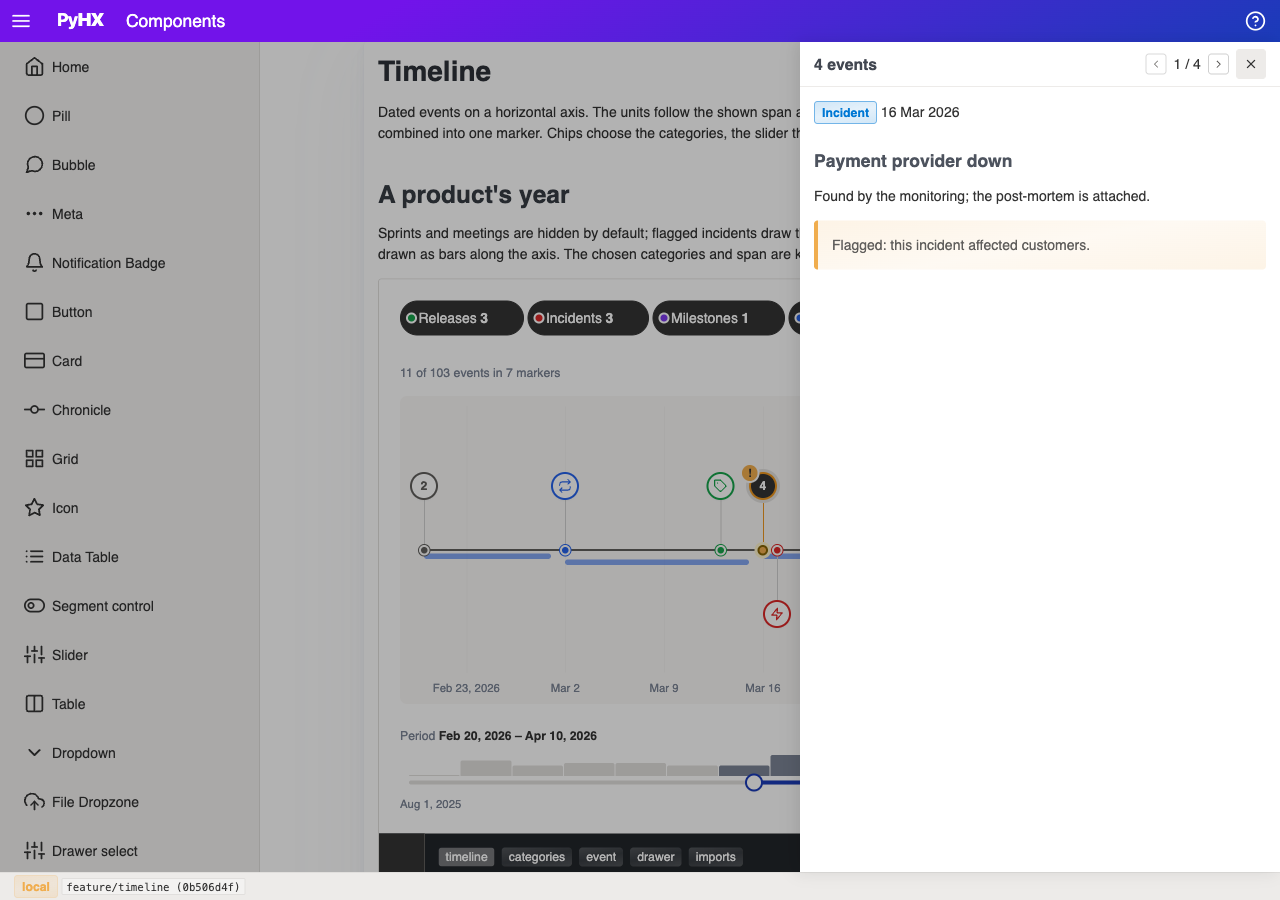
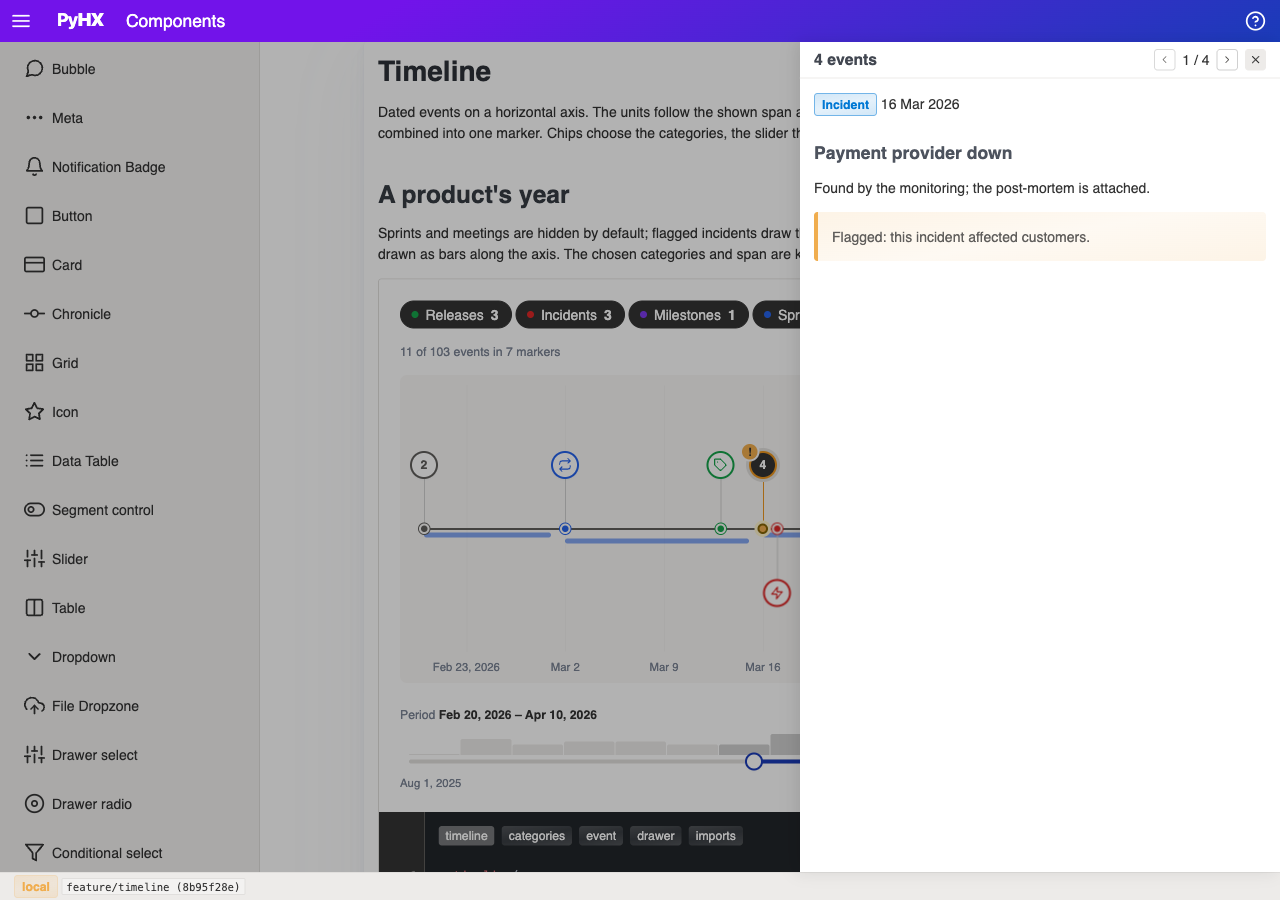
docs: record the drawer's small close button (T-019)

diff --git a/changes/03--closed/T-019--timeline/spec.md b/changes/03--closed/T-019--timeline/spec.md
@@ -72,6 +72,8 @@ Implemented as specified, with these deviations and findings (from the plan, rem
 - **D4** After the developer's review ("not nice spacing, the labels are not centred on the same line"): the chip row is a `role="group"`, which Pico styles as a joined button group (stretched children, margin); the timeline undoes that, the chips have one height (2rem) and even padding, and "Default" and "All" sit centred on the chips' line. The density strip is lighter (neutral-200, neutral-400 in the span).
 - **D5** After the review ("a hover effect like pulse, just not pulsing; warning markers pulsing"): markers show a still ring in their colour on hover and focus; markers with a warning send out a pulsing ring (like the loading indicator's ripple) and keep a still ring when the system asks for reduced motion.
 - **D6** After the review: the canvas layout sample has a timeline page too (`/timeline`, the course of a dossier in a card, with a drawer per marker), since the first app uses `CanvasShell`.
+- **D7** After the review ("button sizes should be the same, tend to the smaller size"): the drawer's close button is a small button (`size="sm"`), like the controls beside it, in every drawer; in the canvas design it is 28px (was 32px), in the plain design the plain small size.
+- **F5** Starlette serves the static files without `Cache-Control`, so browsers cache them heuristically from `Last-Modified`: a stylesheet unchanged for days stays fresh for hours, and a changed `@import`ed file (here `drawer.css`) only shows after its cache entry is refreshed. Not changed here; worth a pyhx change of its own (versioned URLs or `Cache-Control: no-cache`).
 - **F1** `feather.replace()` doesn't reach into `<template>`: the script turns a category's Feather icon into SVG with `feather.icons[name].toSvg()`.
 - **F2** The drawer's close button is swapped out with the drawer's content, so htmx events of the close don't reach the document; while a marker is open the script follows the drawer with a `MutationObserver`, to show the marker closed again.
 - **F3** A period that began before the shown span puts its marker at the axis' start (it stuck out on the left before).
